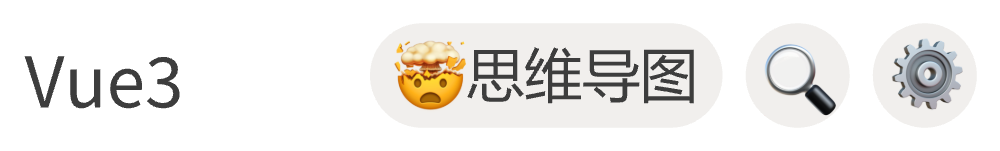
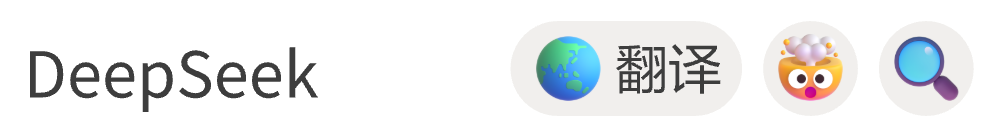
✨ (cn.widgetjs.widgets.clipboard.json, SearchWidgetView.vue, widget.json): rename clipboard widgets, update titles and descriptions, and add translation functionality

Changed region(s): [[0.372, 0.2628, 0.961, 0.7591], [0.0, 0.3504, 0.341, 0.8175]]

diff --git a/src/widgets/search/SearchWidgetView.vue b/src/widgets/search/SearchWidgetView.vue
@@ -54,6 +54,20 @@ function onMindmapClick() {
     height: 600,
   })
 }
+
+function onTranslateClick() {
+  const url = `https://widgetjs.cn/ai/page/translate?content=${data.value}&${aiConfigStore.configToUrlParams()}`
+  BrowserWindowApi.openUrl(url, {
+    center: true,
+    width: 700,
+    minWidth: 700,
+    minHeight: 400,
+    frame: true,
+    resizable: true,
+    transparent: false,
+    height: 500,
+  })
+}
 </script>
 
 <template>
@@ -63,6 +77,7 @@ function onMindmapClick() {
     </div>
     <div class="actions">
       <ActionIcon emoji="🤯" label="思维导图" @click="onMindmapClick" />
+      <ActionIcon emoji="🌏" label="翻译" @click="onTranslateClick" />
       <ActionIcon emoji="🔍" label="搜索" @click="SearchUtils.search(searchPlatform, data)" />
       <ActionIcon emoji="⚙" label="设置" @click="WidgetApi.openConfigPage()" />
     </div>
